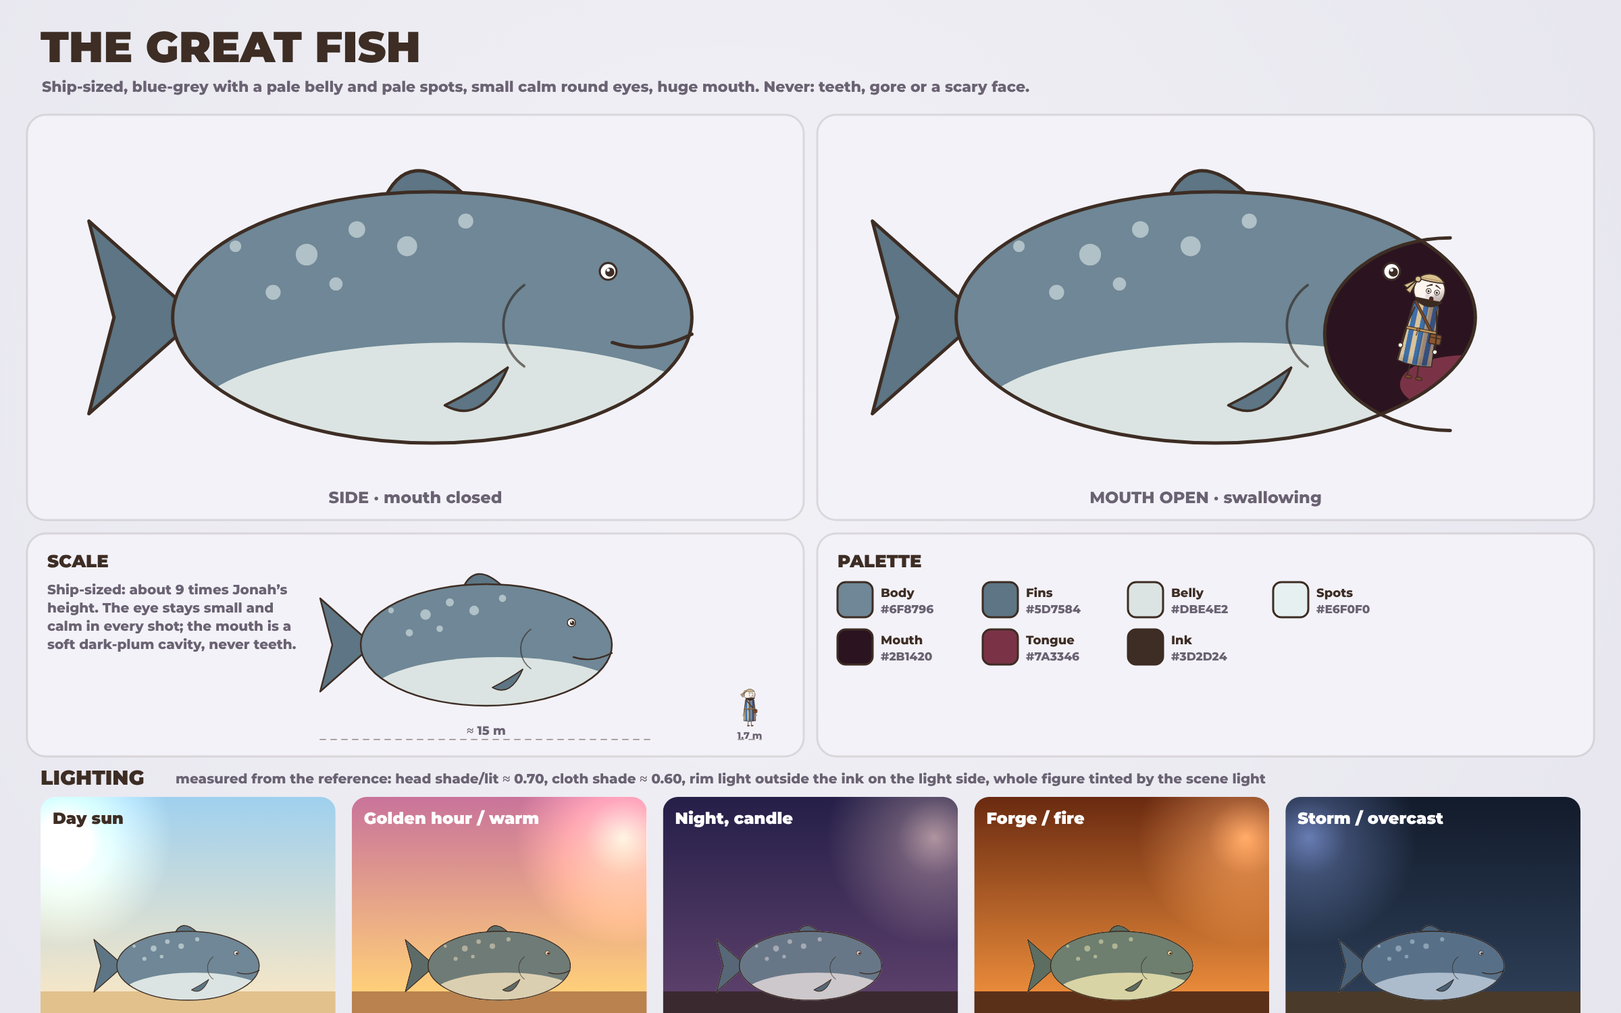
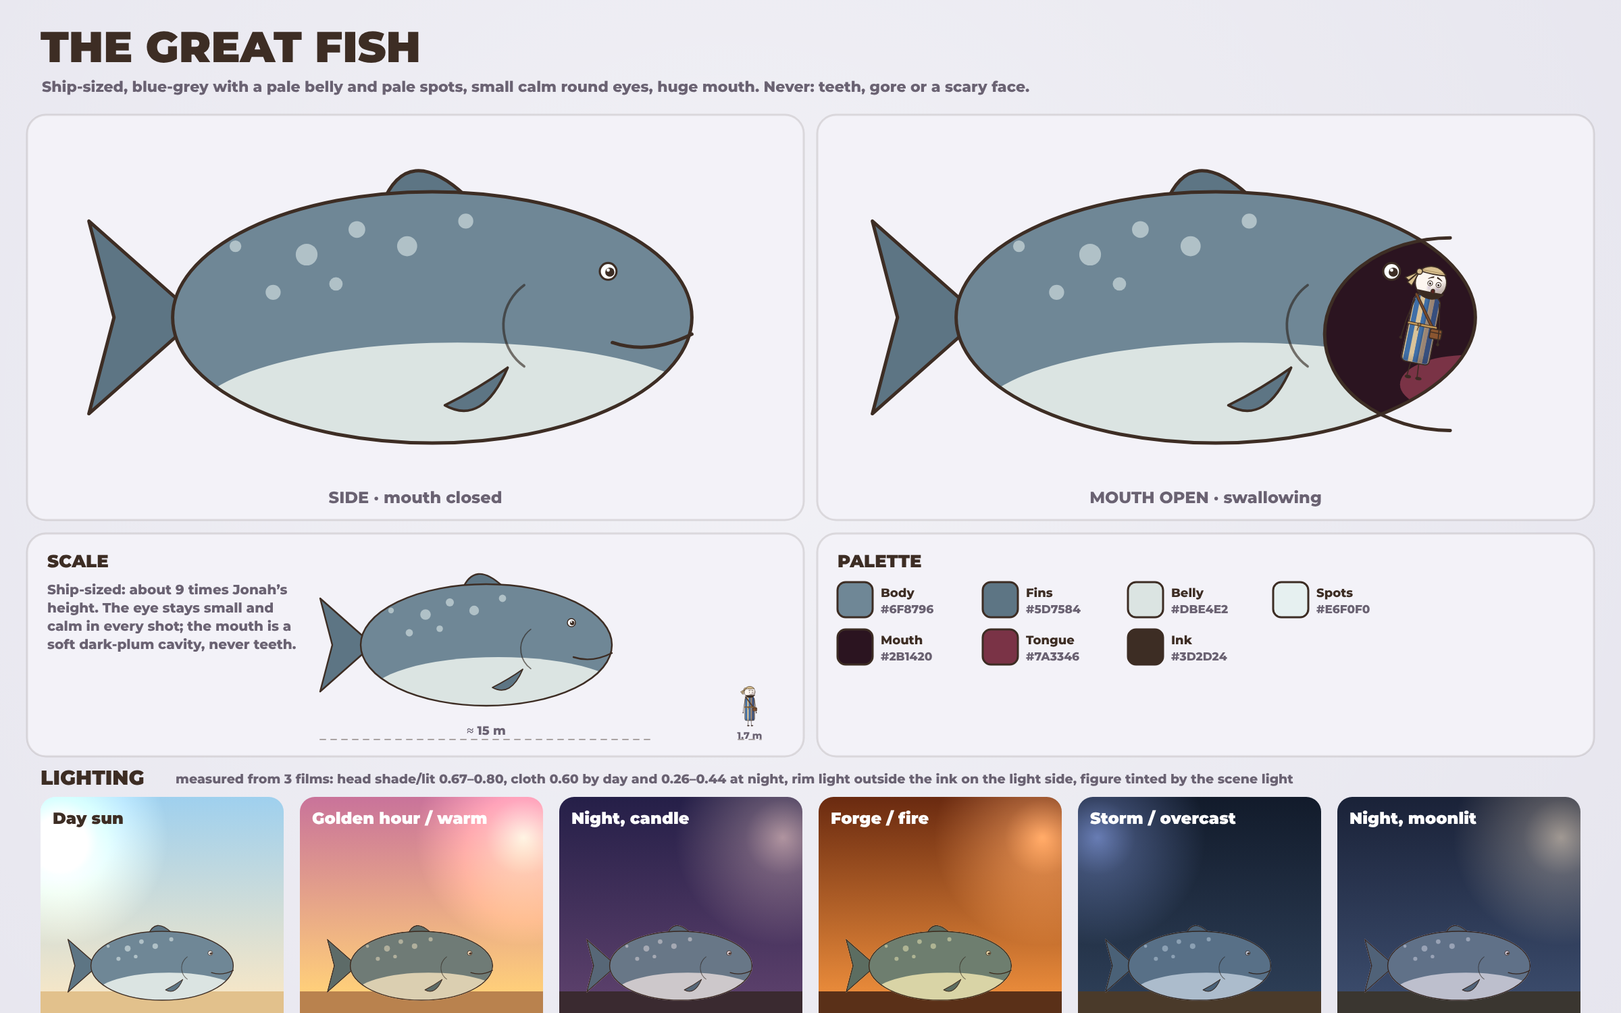
Rig v3: capsule bodies, ink-nub hands, layered attire, Rick's Clips expression set, night tile on sheets
Claude-Session: https://claude.ai/code/session_013rJZrNrTiZedSYoA59gK9s

Changed region(s): [[0.0312, 0.7667, 1.0, 1.0], [0.8438, 0.2453, 0.9062, 0.368], [0.4375, 0.6747, 0.4688, 0.7053]]

diff --git a/jonah-short/sheets/sheets.js b/jonah-short/sheets/sheets.js
@@ -51,11 +51,12 @@ const LTILE = {
   candle: ['Night, candle', ['#251f48', '#5a3f6a'], '#3a2a30', 'tint #EFE0E5 · cool shade #AEA3D4 · 30% · warm rim'],
   fire: ['Forge / fire', ['#6a2a10', '#e88a3a'], '#5a3018', 'tint #FDEEBC · shade #D6BE85 · 16% · orange rim'],
   storm: ['Storm / overcast', ['#121b2b', '#2c3d55'], '#4a3a2a', 'tint #C9D3E6 · shade #7D86A8 · 30% · cold rim'],
+  night: ['Night, moonlit', ['#1a2238', '#3a4a6a'], '#3a3630', 'tint #DCD6E8 · shade #B29390 · 34% · dark cloth'],
 };
 function lightingStrip(opts, y) {
   text('LIGHTING', 60, y - 18, 30);
-  text('measured from the reference: head shade/lit ≈ 0.70, cloth shade ≈ 0.60, rim light outside the ink on the light side, whole figure tinted by the scene light', 260, y - 20, 20, SUB, 800);
-  const keys = Object.keys(LTILE), w = (SW - 120 - 4 * 24) / 5;
+  text('measured from 3 films: head shade/lit 0.67–0.80, cloth 0.60 by day and 0.26–0.44 at night, rim light outside the ink on the light side, figure tinted by the scene light', 260, y - 20, 19, SUB, 800);
+  const keys = Object.keys(LTILE), w = (SW - 120 - 5 * 24) / 6;
   keys.forEach((k, i) => {
     const x = 60 + i * (w + 24), [name, sky, gnd, note] = LTILE[k];
     g.save(); rrect(g, x, y, w, 400, 22); g.clip();
@@ -68,7 +69,7 @@ function lightingStrip(opts, y) {
     g.save(); g.fillStyle = 'rgba(0,0,0,0.25)'; ell(g, x + w / 2 - L.x * 40, fy + 4, 70, 12); g.fill(); g.restore();
     charTint(g, SW, SH, L.tint, gg => opts ? person(gg, { ...opts, x: x + w / 2, y: fy, s, idle: false }) : fish(gg, x + w / 2, fy - 120, 0.17, 0, 0));
     g.restore();
-    text(name, x + 18, y + 40, 24, k === 'day' ? INKC : '#fff', 900); text(note, x + 18, y + 392, 15, k === 'day' ? INKC : 'rgba(255,255,255,0.92)', 800);
+    text(name, x + 18, y + 40, 24, k === 'day' ? INKC : '#fff', 900); text(note, x + 14, y + 392, 13, k === 'day' ? INKC : 'rgba(255,255,255,0.92)', 800);
     CHAR_LIGHT = LIGHTS.day;
   });
 }
@@ -81,8 +82,8 @@ function standard(c) {
   background(); header(c.name, c.sub);
   panel(40, 170, 700, 830); bust(c.bustOpts || c.base, 390, 585, 330, 2.9); label('CLOSE-UP', 390, 975);
   panel(760, 170, 900, 830);
-  const s = 1.3, fy = 945;
-  guide(830, fy, s, [[0, '0'], [0.45, '0.45 D'], [1, '1 D'], [2, '2 D'], [2.45, '2.45 D'], [3, '3 D'], [3.53, '3.5 D']]);
+  const s = 1.18, fy = 950;
+  guide(830, fy, s, [[0, '0'], [0.5, '0.5 D'], [1, '1 D'], [2, '2 D'], [2.7, '2.7 D'], [3.6, '3.6 D']]);
   groundShadow(1000, fy, 170); person(g, { ...c.base, ...c.front, x: 1000, y: fy, s, idle: false });
   groundShadow(1400, fy, 170); person(g, { ...c.base, ...(c.turnBase || {}), ...c.turned, x: 1400, y: fy, s, idle: false });
   label(c.frontLabel || 'FRONT · facing right', 1000, 988); label(c.turnedLabel || 'TURNED · facing left', 1400, 988);
@@ -91,7 +92,7 @@ function standard(c) {
   c.expr.forEach(([n, o], i) => headTile({ ...c.base, ...o }, 1710 + (i % 3) * 215, 245 + Math.floor(i / 3) * 255, 190, n));
   text('PALETTE', 1710, 768, 26); swatches(c.palette, 1710, 786, 3);
   lightingStrip({ ...c.base, ...c.front }, 1060);
-  footer('Rig measured from reference frames · head diameter D: total 3.5 D · robe 2.0 D · legs 0.45 D · shoulders 0.8 D · hem 1.1 D · ink 0.035 D · eyes 0.075 D, 0.27 D apart, at head-centre height · brows 0.19 × 0.06 D · mouth +0.25 D');
+  footer('Rig v3, measured on 3 films · capsule body 2.2 D (tunic 1.4 D), sides 0.86–0.89 D, shoulder radius 0.3 D, hem radius 0.15 D · legs 0.5 D (tunic 1.0 D) · ink-nub hands · ink 0.035 D · eyes 0.075 D, 0.27 D apart · brows 0.19 × 0.06 D · hem band 0.08 D');
 }
 // --------------------------------------------------------------- lineup sheet for groups
 function lineup(c) {
@@ -127,32 +128,32 @@ function fishSheet() {
 const SHEETS = {
   jonah: () => standard({
     name: 'JONAH', sub: 'The prophet. Sand-coloured head wrap tied at the back, short dark beard, long blue-and-tan striped robe, rope belt, leather satchel across the chest, sandals. One feeling per line; the red-faced fury appears once.',
-    base: { ...JONAH, idle: false }, front: { dir: 1 }, turned: { dir: -1, arms: { l: [150, 165], r: [14, 4] }, brows: 'flat', mouth: 'open' }, turnedLabel: 'TURNED · proclaiming',
-    expr: [['Neutral', {}], ['Worried', { eyes: 'wide', brows: 'worried', mouth: 'wobbly', sweat: true }], ['Proclaiming', { brows: 'flat', mouth: 'open' }],
-      ['Praying', { eyes: 'closed', brows: 'flat' }], ['Asleep', { eyes: 'closed', mouth: 'o', brows: 'soft' }], ['Furious', { red: true, eyes: 'angry', brows: 'angry', mouth: 'grit' }]],
+    base: { ...JONAH, idle: false, shoes: '#7a4a2a' }, front: { dir: 1, eyes: 'smug', brows: 'skeptic', mouth: 'smirk' }, turned: { dir: -1, arms: { l: [150, 165], r: [14, 4] }, brows: 'flat', mouth: 'open' }, turnedLabel: 'TURNED · proclaiming',
+    expr: [['Smug (default)', { eyes: 'smug', brows: 'skeptic', mouth: 'smirk' }], ['Worried', { eyes: 'wide', brows: 'worried', mouth: 'wobbly', sweat: true }], ['Proclaiming', { brows: 'flat', mouth: 'open' }],
+      ['Praying', { eyes: 'closed', brows: 'flat' }], ['Relieved laugh', { eyes: 'happy', brows: 'soft', mouth: 'laugh' }], ['Furious', { red: true, eyes: 'angry', brows: 'angry', mouth: 'grit' }]],
     palette: [['Robe blue', '#3f6fa8'], ['Robe tan', '#d9c39a'], ['Head wrap', '#d9c08f'], ['Beard', '#3a2a20'], ['Rope belt', '#c49a5a'], ['Satchel', '#8a5530'], ['Head', '#fdf6f0'], ['Ink', '#3d2d24'], ['Sandals', '#7a4a2a']],
   }),
   king: () => standard({
     name: 'KING OF NINEVEH', sub: 'Tall cylindrical red-and-gold crown, long black beard in tight curls, deep-red robe with gold borders, gold sceptre. In the ashes scene: plain brown sackcloth, crown and robe set aside, never worn.',
-    base: { id: 'K', robe: '#8f1f24', trim: '#e0b03a', head: 'crown', beard: 'curly', brows: 'flat', idle: false },
-    front: { dir: 1, hold: sceptre(g), arms: { l: [14, 4], r: [30, -20] } }, turnBase: { robe: '#8b6b47', trim: null, sack: true, head: null },
+    base: { id: 'K', robe: '#8f1f24', trim: '#e0b03a', collar: '#e0b03a', upper: '#a8282c', head: 'crown', beard: 'curly', brows: 'flat', eyes: 'smug', idle: false },
+    front: { dir: 1, hold: sceptre(g), arms: { l: [14, 4], r: [30, -20] } }, turnBase: { robe: '#8b6b47', trim: null, collar: null, upper: null, sack: true, head: null },
     turned: { dir: -1, bow: 0.3, eyes: 'closed', brows: 'worried', mouth: 'frown', arms: CLASP }, turnedLabel: 'SACKCLOTH · repenting',
-    expr: [['Stern', {}], ['Proud', { brows: 'raised', mouth: 'smile' }], ['Shocked', { eyes: 'wide', brows: 'raised', mouth: 'o' }],
-      ['Humbled', { eyes: 'closed', brows: 'worried', mouth: 'frown' }], ['Sackcloth', { sack: true, trim: null, robe: '#8b6b47', head: null, eyes: 'closed', brows: 'worried', mouth: 'line' }], ['Relieved', { eyes: 'happy', brows: 'soft', mouth: 'smile' }]],
+    expr: [['Stern', { brows: 'skeptic' }], ['Proud grin', { eyes: 'dot', brows: 'raised', mouth: 'grin' }], ['Shocked', { eyes: 'wide', brows: 'raised', mouth: 'o', sweat: true }],
+      ['Humbled', { eyes: 'closed', brows: 'worried', mouth: 'frown' }], ['Sackcloth', { sack: true, trim: null, collar: null, upper: null, robe: '#8b6b47', head: null, eyes: 'closed', brows: 'worried', mouth: 'line' }], ['Relieved', { eyes: 'happy', brows: 'soft', mouth: 'laugh' }]],
     palette: [['Robe red', '#8f1f24'], ['Gold', '#e0b03a'], ['Crown red', '#b5302d'], ['Beard', '#1e1a1c'], ['Sackcloth', '#8b6b47'], ['Ash', '#aaa6a0'], ['Head', '#fdf6f0'], ['Ink', '#3d2d24']],
   }),
   sailors: () => lineup({
     name: 'THE SAILORS', sub: 'Four sailors in short tunics, told apart by a red headscarf, a blue cap, a bald head with a full beard, and a green headband. In the storm each prays a different way.',
-    people: [['Red headscarf', { ...SAILORS[0], dir: 1 }], ['Blue cap', { ...SAILORS[1], dir: 1, mustache: true, beardCol: '#3a2a20' }], ['Bald, full beard', { ...SAILORS[2], dir: -1 }], ['Green headband', { ...SAILORS[3], dir: -1 }],
+    people: [['Red headscarf', { ...SAILORS[0], dir: 1, eyes: 'smug', mouth: 'smirk', collar: '#c8423a' }], ['Blue cap', { ...SAILORS[1], dir: 1, mustache: true, beardCol: '#3a2a20', mouth: 'grin', apron: '#6e5a44' }], ['Bald, full beard', { ...SAILORS[2], dir: -1, brows: 'skeptic' }], ['Green headband', { ...SAILORS[3], dir: -1, eyes: 'happy', mouth: 'laugh', collar: '#3f9a5a' }],
       ['…praying: arms up', { ...SAILORS[0], dir: 1, arms: { l: [165, 172], r: [165, 172] }, eyes: 'wide', brows: 'worried', mouth: 'open' }], ['…hands clasped', { ...SAILORS[1], dir: -1, arms: CLASP, eyes: 'closed', brows: 'worried', mouth: 'wobbly', mustache: true, beardCol: '#3a2a20' }],
       ['…kneeling, bowed', { ...SAILORS[2], dir: 1, pose: 'kneel', bow: 0.6, arms: { l: [120, 160], r: [120, 160] }, eyes: 'closed', brows: 'worried' }], ['…palms up', { ...SAILORS[3], dir: -1, arms: { l: [70, 125], r: [70, 125] }, eyes: 'wide', brows: 'worried', mouth: 'o' }]],
     scale: 1.2,
   }),
   townspeople: () => lineup({
     name: 'PEOPLE OF NINEVEH', sub: 'A mix of men, women and children in colourful robes; rough brown sackcloth after the warning. Never identical clones: vary headwear, hair, beards, robe colours and height.',
-    people: [['Woman, gold veil', { robe: '#c94b3a', head: 'veil', headCol: '#e6c46a', dir: 1, mouth: 'smile' }], ['Man, dark hair', { robe: '#e1a23c', head: 'hair', headCol: '#2e2420', dir: 1, mustache: true }],
-      ['Elder, grey beard', { robe: '#4a8fc4', beard: 'full', beardCol: '#9a9a9a', dir: -1, brows: 'flat' }], ['Woman, blue veil', { robe: '#7a5aa8', head: 'veil', headCol: '#5aa0c4', dir: 1 }],
-      ['Child', { robe: '#3f9a6a', head: 'hair', headCol: '#5a3d28', dir: 1, k: 0.66, mouth: 'smile' }], ['Merchant', { robe: '#d6795a', head: 'hair', headCol: '#5a3d28', beard: 'short', beardCol: '#5a3d28', dir: -1 }],
+    people: [['Woman, gold veil', { robe: '#c94b3a', upper: '#e6c46a', head: 'veil', headCol: '#e6c46a', dir: 1, mouth: 'smile' }], ['Man, dark hair', { robe: '#e1a23c', apron: '#8a5a35', head: 'hair', headCol: '#2e2420', dir: 1, mustache: true, eyes: 'smug', mouth: 'smirk' }],
+      ['Elder, grey beard', { robe: '#4a8fc4', upper: '#2f6f8f', beard: 'full', beardCol: '#9a9a9a', dir: -1, brows: 'skeptic' }], ['Woman, blue veil', { robe: '#7a5aa8', head: 'veil', headCol: '#5aa0c4', dir: 1 }],
+      ['Child', { robe: '#3f9a6a', head: 'hair', headCol: '#5a3d28', dir: 1, k: 0.66, mouth: 'smile' }], ['Merchant', { robe: '#d6795a', trim: '#f2c94c', collar: '#f2c94c', head: 'hair', headCol: '#5a3d28', beard: 'short', beardCol: '#5a3d28', dir: -1, eyes: 'stars', mouth: 'grin' }],
       ['Woman, pink veil', { robe: '#2f6f8f', head: 'veil', headCol: '#b8487a', dir: -1, mouth: 'smile' }], ['Child', { robe: '#b8487a', head: 'veil', headCol: '#8cbf4a', dir: -1, k: 0.62 }]],
     row2Title: 'AFTER THE WARNING: sackcloth, kneeling',
     row2: [['', { sack: true, head: 'veil', headCol: '#9c8664', pose: 'kneel', bow: 0.55, arms: CLASP, eyes: 'closed', brows: 'worried', dir: 1 }], ['', { sack: true, head: 'hair', headCol: '#2e2420', pose: 'kneel', bow: 0.55, arms: CLASP, eyes: 'closed', brows: 'worried', dir: 1, mustache: true }],

diff --git a/jonah-short/draw.js b/jonah-short/draw.js
@@ -193,7 +193,7 @@ function person(g, o) {
     robe: '#8a7a6a', stripes: null, trim: null, tunic: false, sack: false,
     arms: { l: [12, 6], r: [12, 6] }, head: null, headCol: '#d9c08f', beard: null, beardCol: '#3a2a20',
     eyes: 'dot', brows: null, mouth: 'line', look: 0, back: false, red: false, bow: 0,
-    belt: null, satchel: false, sweat: false, seaweed: false, hold: null, holdL: null,
+    belt: null, satchel: false, upper: null, upperStripe: null, armor: null, apron: null, collar: null, shoes: null, sweat: false, seaweed: false, hold: null, holdL: null,
     id: null, crowd: false, xb: null, idle: true, mustache: false,
   }, o);
   const id = d.id || `${d.robe}|${d.head}|${d.headCol}|${d.s.toFixed(2)}|${d.beard}`;
@@ -209,17 +209,19 @@ function person(g, o) {
   // total height ~3.5 D, robe 2.0 D (tunic 1.6 D), legs 0.45 D (tunic 0.75 D), shoulders 0.8 D, hem 1.1 D,
   // head overlaps the top of the body by 0.08 D.
   const R = 70, D = 140;
-  const legH = (d.tunic ? 0.75 : 0.45) * D, bodyH = (d.tunic ? 1.6 : 2.0) * D * (sit ? 0.72 : 1);
+  // v3 (measured on the priest and the samurai): capsule body, nearly straight sides 0.86-0.89 D,
+  // shoulder corners rounded 0.3 D, hem corners 0.15 D; robe 2.2 D + legs 0.5 D; tunic 1.4 D + legs 1.0 D.
+  const legH = (d.tunic ? 1.0 : 0.5) * D, bodyH = (d.tunic ? 1.4 : 2.2) * D * (sit ? 0.72 : 1);
   const hemY = sit ? -24 : -legH;
   const shY = d.pose === 'hands' ? -150 : hemY - bodyH;
-  const topW = 0.4 * D, botW = (d.tunic ? 0.48 : 0.55) * D + (sit ? 18 : 0);
+  const topW = 0.44 * D, botW = 0.45 * D + (sit ? 18 : 0);
   const hx = d.bow * 46 * d.dir + (d.pose === 'hands' ? d.dir * 120 : 0);
   const hy = shY - R + 0.08 * D + d.bow * 30 + (d.pose === 'hands' ? 40 : 0);
 
   // legs
   const leg = (x0, y0, x1, y1) => {
-    line(g, x0, y0, x1, y1, 6.3);
-    ell(g, x1 + d.dir * 8, y1 - 4, 15, 7); fs(g, '#7a4a2a', 4);
+    line(g, x0, y0, x1, y1, 5);
+    ell(g, x1 + d.dir * 6, y1 - 4, 13, 6); fs(g, d.shoes || '#3a2a24', 3);
   };
   if (!sit) {
     const sw = d.walk == null ? 0 : Math.sin(d.walk) * 30;
@@ -242,9 +244,9 @@ function person(g, o) {
   };
   const drawArm = (side, a, item) => {
     const [ex, ey, hx2, hy2] = armPts(side, a);
-    g.beginPath(); g.moveTo(side * sx, sy); g.lineTo(ex, ey); g.lineTo(hx2, hy2); stroke(g, 6.3);
+    g.beginPath(); g.moveTo(side * sx, sy); g.lineTo(ex, ey); g.lineTo(hx2, hy2); stroke(g, 5);
     if (item) item(hx2, hy2);
-    circle(g, hx2, hy2, 10); fs(g, HEAD, 4);
+    circle(g, hx2, hy2, 7); fill(g, OUT);
   };
 
   // body (breathing bob lifts everything above the legs)
@@ -252,20 +254,38 @@ function person(g, o) {
   g.save();
   if (d.pose === 'hands') { g.translate(0, -10); g.rotate(d.dir * 1.05); g.translate(0, 60); }
   const bodyPath = () => {
+    const rt = 0.3 * D, rb = 0.15 * D;
     g.beginPath();
-    g.moveTo(-topW + 12, shY);
-    g.lineTo(topW - 12, shY);
-    g.quadraticCurveTo(topW, shY, topW + 2, shY + 16);
-    g.lineTo(botW, hemY - 4);
-    g.quadraticCurveTo(0, hemY + 12, -botW, hemY - 4);
-    g.lineTo(-topW - 2, shY + 16);
-    g.quadraticCurveTo(-topW, shY, -topW + 12, shY);
+    g.moveTo(-topW + rt, shY);
+    g.lineTo(topW - rt, shY);
+    g.quadraticCurveTo(topW, shY, topW, shY + rt);
+    g.lineTo(botW, hemY - rb);
+    g.quadraticCurveTo(botW, hemY, botW - rb, hemY);
+    g.lineTo(-botW + rb, hemY);
+    g.quadraticCurveTo(-botW, hemY, -botW, hemY - rb);
+    g.lineTo(-topW, shY + rt);
+    g.quadraticCurveTo(-topW, shY, -topW + rt, shY);
     g.closePath();
   };
   bodyPath(); fill(g, d.sack ? '#8b6b47' : d.robe);
   g.save(); bodyPath(); g.clip();
   if (d.stripes) { for (let i = -6; i < 7; i++) { g.fillStyle = d.stripes[(i + 60) % d.stripes.length]; g.fillRect(i * 22 - 11, shY - 10, 22, bodyH + 40); } }
-  if (d.trim) { g.fillStyle = d.trim; g.fillRect(-9, shY, 18, bodyH + 30); g.fillRect(-120, hemY - 22, 240, 30); }
+  // Layered attire (measured placement, in D): upper vestment over the top 45 %, hem band 0.08 D,
+  // centre trim 0.1 D wide, armour panel with dot rows on the torso, collar V 0.25 D deep, apron with pockets.
+  if (d.upper) { g.fillStyle = d.upper; g.fillRect(-200, shY - 10, 400, bodyH * 0.45 + 10); if (d.upperStripe) { g.fillStyle = d.upperStripe; [-0.16, 0.16].forEach(x => g.fillRect(x * D - 5, shY, 10, bodyH * 0.45)); } line(g, -200, shY + bodyH * 0.45, 200, shY + bodyH * 0.45, 4); }
+  if (d.trim) { g.fillStyle = d.trim; g.fillRect(-0.05 * D, shY, 0.1 * D, bodyH + 30); g.fillRect(-200, hemY - 0.08 * D, 400, 0.08 * D + 4); line(g, -200, hemY - 0.08 * D, 200, hemY - 0.08 * D, 3, 'rgba(61,45,36,0.6)'); }
+  if (d.armor) {
+    const ay0 = shY + 0.16 * D, ay1 = shY + bodyH * 0.62;
+    g.fillStyle = d.armor; g.fillRect(-200, ay0, 400, ay1 - ay0);
+    for (let yy = ay0 + 14; yy < ay1 - 6; yy += 22) { line(g, -200, yy + 8, 200, yy + 8, 2.5, 'rgba(30,15,15,0.55)'); for (let xx = -topW + 12; xx < topW; xx += 17) { circle(g, xx, yy, 3.2); fill(g, '#f1e2c4'); } }
+    line(g, -200, ay1, 200, ay1, 4);
+  }
+  if (d.apron) {
+    rrect(g, -0.36 * D, shY + 0.25 * D, 0.72 * D, bodyH * 0.78, [0.08 * D, 0.08 * D, 0.12 * D, 0.12 * D]); fs(g, d.apron, 4);
+    [-1, 1].forEach(sd => { rrect(g, sd * 0.2 * D - 0.11 * D, shY + bodyH * 0.55, 0.22 * D, 0.2 * D, 6); stroke(g, 3.5); });
+    line(g, -0.3 * D, shY + 0.25 * D, -0.36 * D, shY, 4); line(g, 0.3 * D, shY + 0.25 * D, 0.36 * D, shY, 4);
+  }
+  if (d.collar) { poly(g, [[-0.22 * D, shY], [0, shY + 0.25 * D], [0.22 * D, shY]], false); stroke(g, 0.12 * D, OUT); stroke(g, 0.12 * D - 8, d.collar); }
   if (d.sack) {
     g.strokeStyle = 'rgba(60,40,20,0.35)'; g.lineWidth = 2;
     for (let i = -10; i < 10; i++) { line(g, i * 14, shY, i * 14 + 30, hemY + 10, 2, 'rgba(60,40,20,0.3)'); }
@@ -299,8 +319,8 @@ function person(g, o) {
   const items = { r: d.hold, l: d.holdL };
   if (d.pose === 'hands') {
     const hx0 = d.dir * 70, hy0 = -120;
-    line(g, hx0, hy0, hx0 + d.dir * 30, -4, 8); circle(g, hx0 + d.dir * 30, -6, 10); fs(g, HEAD, 4);
-    line(g, hx0 - d.dir * 16, hy0 + 6, hx0 + d.dir * 8, -4, 8); circle(g, hx0 + d.dir * 8, -6, 10); fs(g, HEAD, 4);
+    line(g, hx0, hy0, hx0 + d.dir * 30, -4, 8); circle(g, hx0 + d.dir * 30, -6, 7); fill(g, OUT);
+    line(g, hx0 - d.dir * 16, hy0 + 6, hx0 + d.dir * 8, -4, 8); circle(g, hx0 + d.dir * 8, -6, 7); fill(g, OUT);
   } else {
     drawArm(-1, [d.arms.l[0] + sway, d.arms.l[1] + sway * 0.7], items.l);
     drawArm(1, [d.arms.r[0] - sway, d.arms.r[1] - sway * 0.7], items.r);
@@ -388,6 +408,9 @@ function drawHead(g, hx, hy, R, d) {
     else if (d.eyes === 'wide') { circle(g, ex, ey, 11); fs(g, '#fff', 3.2); circle(g, ex + d.look * 4, ey + 1, 5); fill(g, OUT); }
     else if (d.eyes === 'closed') { g.beginPath(); g.arc(ex, ey - 5, 8.5, 0.2 * PI, 0.8 * PI); stroke(g, 4.5); }
     else if (d.eyes === 'happy') { g.beginPath(); g.arc(ex, ey + 4, 8, 1.15 * PI, 1.85 * PI); stroke(g, 4.5); }
+    else if (d.eyes === 'smug') { ell(g, ex + d.look * 1.5, ey + 1.5, 5, 4.5); fill(g, OUT); line(g, ex - 9, ey - 3, ex + 9, ey - 3, 4); }      // half-lidded: lid line over a dot
+    else if (d.eyes === 'stars') { const st = (cx, cy, r) => { g.beginPath(); for (let k = 0; k < 10; k++) { const a = -PI / 2 + k * PI / 5, rr = k % 2 ? r * 0.45 : r; g.lineTo(cx + Math.cos(a) * rr, cy + Math.sin(a) * rr); } g.closePath(); }; circle(g, ex, ey, 9); fill(g, OUT); st(ex, ey, 7.5); fill(g, '#ffd34a'); glow(g, ex, ey, 22, '255,210,90', 0.5); }
+    else if (d.eyes === 'glow') { circle(g, ex, ey, 6); fill(g, '#ff3b2f'); glow(g, ex, ey, 26, '255,60,40', 0.9); }
   };
   eye(ex1); eye(ex2);
   const brow = (ex, side) => {
@@ -398,6 +421,7 @@ function drawHead(g, hx, hy, R, d) {
     if (b === 'flat') { o = [ex - side * 13, by]; i = [ex + side * 12, by]; arch = -1; }
     if (b === 'raised') { o = [ex - side * 13, by - 6]; i = [ex + side * 12, by - 9]; arch = -5; }
     if (b === 'soft') { o = [ex - side * 13, by + 1]; i = [ex + side * 12, by - 1]; arch = -4; }
+    if (b === 'skeptic') { const up = side === dir; o = [ex - side * 13, by + (up ? -8 : 2)]; i = [ex + side * 12, by + (up ? -6 : 4)]; arch = up ? -5 : 0; }
     // tapered: thin at the outer end (3.5), thick at the inner end (0.06 D = 8.4)
     const mx2 = (o[0] + i[0]) / 2, my2 = (o[1] + i[1]) / 2 + arch;
     g.beginPath(); g.moveTo(o[0], o[1] - 1.7); g.quadraticCurveTo(mx2, my2 - 3.5, i[0], i[1] - 4.2);
@@ -413,6 +437,9 @@ function drawHead(g, hx, hy, R, d) {
     case 'o': ell(g, mx, my + 2, 8, 10); fs(g, '#5a2420', 4); break;
     case 'open': g.beginPath(); g.moveTo(mx - 20, my - 6); g.lineTo(mx + 20, my - 6); g.quadraticCurveTo(mx + 20, my + 26, mx, my + 26); g.quadraticCurveTo(mx - 20, my + 26, mx - 20, my - 6); fs(g, '#5a2420', 4); break;
     case 'grit': rrect(g, mx - 26, my - 10, 52, 22, 6); fs(g, '#fff', 4); for (let i = -1; i <= 1; i++) line(g, mx + i * 13, my - 10, mx + i * 13, my + 12, 3); line(g, mx - 26, my + 1, mx + 26, my + 1, 3); break;
+    case 'grin': g.beginPath(); g.moveTo(mx - 26, my - 6); g.quadraticCurveTo(mx, my - 2, mx + 26, my - 6); g.quadraticCurveTo(mx + 20, my + 22, mx, my + 22); g.quadraticCurveTo(mx - 20, my + 22, mx - 26, my - 6); fs(g, '#fff', 4); for (let i = -2; i <= 2; i++) line(g, mx + i * 9, my - 4, mx + i * 9, my + 7, 2.5); line(g, mx - 24, my + 6, mx + 24, my + 6, 2.5); break;
+    case 'smirk': g.beginPath(); g.moveTo(mx - 12, my + 2); g.quadraticCurveTo(mx + 4, my + 6, mx + dir * 15, my - 6); stroke(g, 4.5); break;
+    case 'laugh': g.beginPath(); g.moveTo(mx - 24, my - 6); g.lineTo(mx + 24, my - 6); g.quadraticCurveTo(mx + 22, my + 30, mx, my + 30); g.quadraticCurveTo(mx - 22, my + 30, mx - 24, my - 6); fs(g, '#5a2420', 4); g.save(); g.clip(); ell(g, mx, my + 28, 14, 9); fill(g, '#d9606a'); g.restore(); rrect(g, mx - 20, my - 6, 40, 8, 3); fill(g, '#fff'); break;
     case 'wobbly': g.beginPath(); g.moveTo(mx - 16, my); for (let i = 1; i <= 4; i++) g.lineTo(mx - 16 + i * 8, my + (i % 2 ? -4 : 3)); stroke(g, 4.5); break;
   }
   if (d.sweat) { const sx2 = hx + dir * (R - 2), sy2 = hy - 34; g.beginPath(); g.moveTo(sx2, sy2 - 18); g.quadraticCurveTo(sx2 + 13, sy2 + 4, sx2, sy2 + 8); g.quadraticCurveTo(sx2 - 13, sy2 + 4, sx2, sy2 - 18); fs(g, '#8fd3f4', 4); }

diff --git a/ricks-clips-style/CHARACTERS.md b/ricks-clips-style/CHARACTERS.md
@@ -82,6 +82,56 @@ A new `night` preset in `draw.js` uses these values:
 
 The 3D storm shots (3 and 4) now use it.
 
+## 3b. Rig v3: construction, attire and expressions (measured on 3 films, Nov 21)
+
+**Sources:**
+- the priest (knight film)
+- the blacksmith and kings (spear film)
+- six samurai characters (night film, screen recordings)
+
+**Body: a capsule, not a trapezoid.** Measured on the priest:
+
+| | Measured | Rig |
+|---|---|---|
+| Width at shoulder | 0.89 D | 0.88 D |
+| Width at middle | 0.83 D | 0.88 D |
+| Width at hem | 0.86 D | 0.90 D |
+| Shoulder corner radius | ≈ 0.3 D | 0.3 D |
+| Hem corner radius | ≈ 0.15 D | 0.15 D |
+| Robe length | 2.2 D | 2.2 D |
+| Robe legs | 0.5 D | 0.5 D |
+| Tunic body | ≈ 1.4 D | 1.4 D |
+| Tunic legs | ≈ 1.0 D (samurai) | 1.0 D |
+| Hands | small ink nubs (≈ 0.1 D), never white balls | ink nub |
+| Shoes | small dark ovals ≈ 0.18 D | dark ovals |
+
+**Attire is layered on the capsule, never shaped into it**
+
+| Layer | Placement | Rig option |
+|---|---|---|
+| Upper vestment | top 45 % of the body | `upper`, `upperStripe` |
+| Hem band | 0.08 D at the bottom | part of `trim` |
+| Centre trim | 0.1 D wide | `trim` |
+| Collar V | ≈ 0.25 D deep | `collar` |
+| Armour panel (samurai) | 0.16 D below the shoulder down to 62 % of the body; rows of cream dots every ≈ 0.16 D | `armor` |
+| Apron (blacksmith) | 0.72 D wide, with two pockets | `apron` |
+
+**Headwear** sits on the top third of the head and overlaps it: crown, helmet, hood, cap, topknot, wrap tails.
+
+**Expressions catalogued**
+
+| | Types |
+|---|---|
+| Eyes | dot; **smug half-lid** (the most common default face); wide with pupils; happy arcs; closed; **star eyes** (greed); **glowing red** (menace); blink line |
+| Brows | thick and tapered; often **asymmetric**, one raised (`skeptic`) |
+| Mouths | **smirk** (one-sided); **toothy grin** (white with tooth lines); **open laugh** with tongue and top teeth; o; gritted teeth; wobbly; frown |
+| Extras | sweat drop; cheek patches |
+
+All of these are in `draw.js`. The sheets now show:
+- the smug face as the default
+- a laugh and a grin
+- the night (moonlit) preset as a sixth lighting tile
+
 ## 4. Sheets
 In `characters/sheets/`:
 - `sheet_jonah.png`
